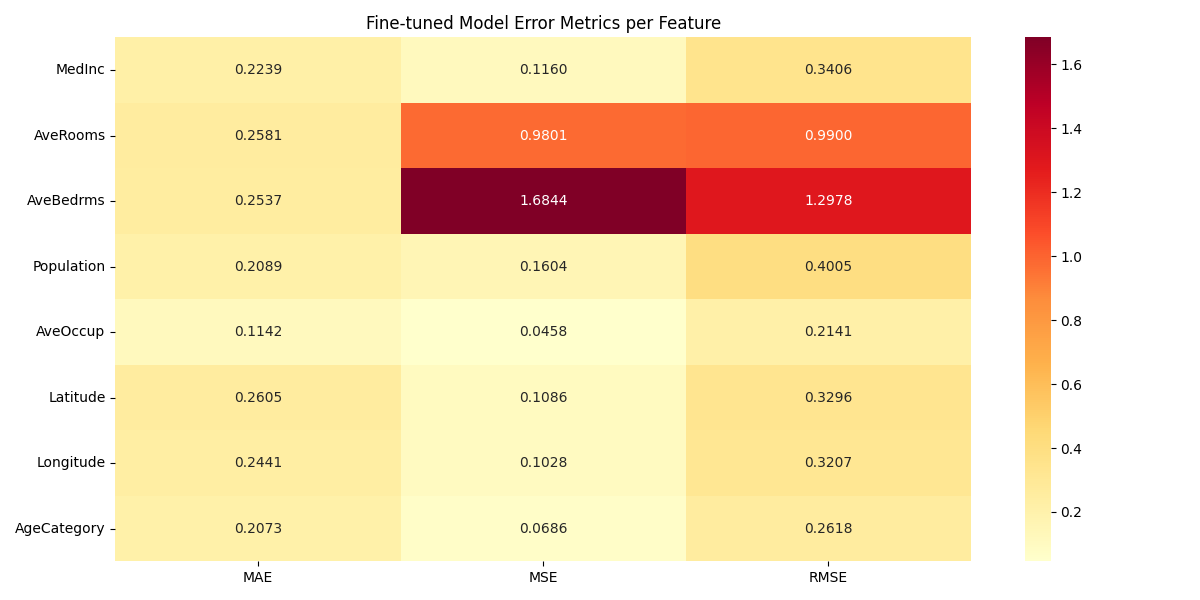
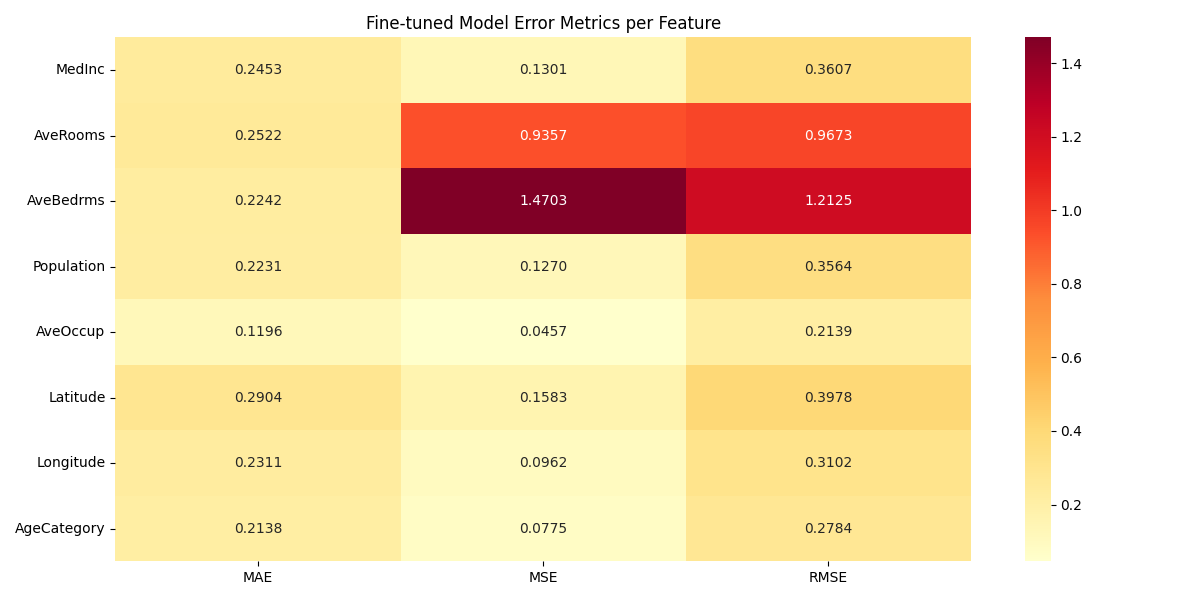
Enhance model scripts with improved documentation and performance metrics
- Updated comments in model building and training scripts for clarity, including translations to English.
- Added detailed parameter descriptions in the training script to improve usability.
- Enhanced the training process with success rate summaries and detailed performance metrics, including MAE and validation accuracy comparisons.
- Improved data preparation comments for adversarial data handling.
- Updated evaluation metrics in CSV files to reflect new performance insights.

These changes aim to improve code readability, model evaluation accuracy, and overall maintainability.

diff --git a/07_train_model.py b/07_train_model.py
@@ -50,6 +50,13 @@ def accuracy_metric(y_true, y_pred, mask):
     )
     accuracy = tf.reduce_sum(mask * correct_predictions) / tf.reduce_sum(mask)
     return accuracy
+"""
+parameters:
+batch_size: number of samples per batch
+epochs: number of epochs to train the model
+validation_split: fraction of data to use for validation
+num_runs: number of times to run the training process
+"""
 
 def train_model(batch_size=256, epochs=10, validation_split=0.2, num_runs=1):
     """Train the model multiple times and save statistics"""
@@ -58,7 +65,7 @@ def train_model(batch_size=256, epochs=10, validation_split=0.2, num_runs=1):
     
     # Load model architecture
     with open('models/model_architecture.json', 'r') as json_file:
-        model_architecture = json_file.read()  # קורא כמחרוזת במקום להמיר ל-dict
+        model_architecture = json_file.read()  # reads as string instead of converting to dict
     
     for run in range(num_runs):
         print(f"\nRun {run+1}/{num_runs}")
@@ -199,6 +206,27 @@ def train_model(batch_size=256, epochs=10, validation_split=0.2, num_runs=1):
         std = np.std(values)
         print(f"{metric_name:10s}: {mean:.4f} ± {std:.4f}")
     
+    # Add success rate summary
+    print("\nSuccess Rates:")
+    print(f"Training Success Rate: {float(train_acc_metric.result())*100:.2f}%")
+    print(f"Validation Success Rate: {float(val_acc_metric.result())*100:.2f}%")
+    
+    # Add detailed performance
+    print("\nDetailed Performance:")
+    print(f"Training MAE: {float(train_mae_metric.result()):.4f}")
+    print(f"Validation MAE: {float(val_mae_metric.result()):.4f}")
+    print(f"Average prediction error: ±{float(val_mae_metric.result()):.4f} units")
+    
+    # Add comparison between training and validation
+    train_acc = float(train_acc_metric.result())*100
+    val_acc = float(val_acc_metric.result())*100
+    diff = abs(train_acc - val_acc)
+    print(f"\nDifference between training and validation accuracy: {diff:.2f}%")
+    if diff < 5:
+        print("✅ Model shows good generalization (difference < 5%)")
+    else:
+        print("⚠ Model might be overfitting (difference > 5%)")
+
     return model, all_metrics
 
 if __name__ == "__main__":

diff --git a/05_build_model.py b/05_build_model.py
@@ -16,9 +16,10 @@ def create_transformer_block(x, embed_dim, ff_dim, num_heads):
     x_reshaped = layers.Reshape((1, embed_dim))(x)
     
     # Multi-head attention
+    # every head will attend to a different part of the input
     attention_output = layers.MultiHeadAttention(
         num_heads=num_heads, 
-        key_dim=embed_dim // num_heads  # חלוקה במספר הראשים
+        key_dim=embed_dim // num_heads  # divide by number of heads
     )(x_reshaped, x_reshaped)
     
     # Reshape back to 2D
@@ -38,7 +39,7 @@ def create_transformer_block(x, embed_dim, ff_dim, num_heads):
 """
 Parameters:
 input_dim: Input dimension
-embed_dim: Embedding dimension
+embed_dim: Embedding dimension is the dimension of the input vector
 ff_dim: Feed-Forward network dimension
 num_heads: Number of attention heads
 model_depth_enc: Number of encoder layers
@@ -51,11 +52,12 @@ def create_model(input_dim, embed_dim=64, ff_dim=64, num_heads=2,
     MET model architecture:
     1. Encoder-Decoder transformer
     2. Uses multiple transformer layers
-    3. Input layer
-    4. Initial embedding layer
-    5. Encoder blocks
-    6. Decoder blocks
-    7. Output layer
+
+    1. Input layer
+    2. Initial embedding layer
+    3. Encoder blocks
+    4. Decoder blocks
+    5. Output layer
     """
     # Input layers
     inputs = layers.Input(shape=(input_dim,))

diff --git a/11_prepare_adversarial_data.py b/11_prepare_adversarial_data.py
@@ -38,8 +38,8 @@ def prepare_adversarial_data():
     # Save prepared data
     np.savez('data/adversarial_data.npz',
              X_train=X_train,                    # Original training samples
-             X_train_noisy_sets=X_train_sets,    # סטים של נתונים מופרעים
-             noise_levels=noise_levels,          # רמות הרעש ששימשו
+             X_train_noisy_sets=X_train_sets,    # Sets of perturbed data
+             noise_levels=noise_levels,          # Noise levels used
              y_train=y_train,
              mask_train=mask_train)
     

diff --git a/12_train_adversarial_model.py b/12_train_adversarial_model.py
@@ -47,8 +47,7 @@ def adversarial_loss(model, x, y, mask, epsilon=0.1):
     The process is:
     - Gradient (grad) shows the direction to change the input to increase the loss
     - tf.sign(grad) gives +1 or -1 depending on the gradient direction
-    - epsilon (0.1) determines how large the perturbation will be
-    - delta is the perturbation itself
+    - epsilon (0.1) determines how large the perturbation will be delta is the perturbation itself
     - x_adv are the adversarial samples
     """
     x = tf.cast(x, tf.float32)
